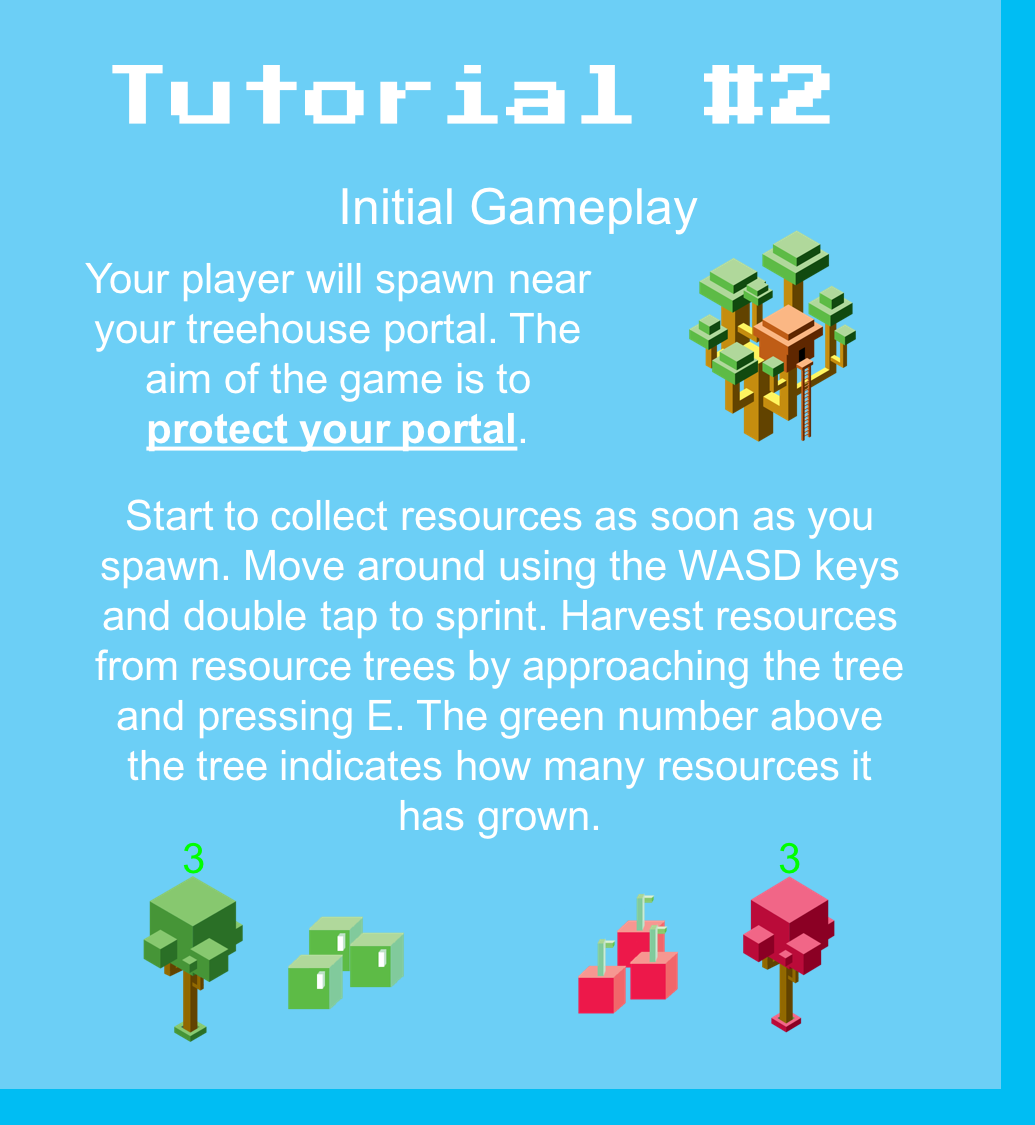
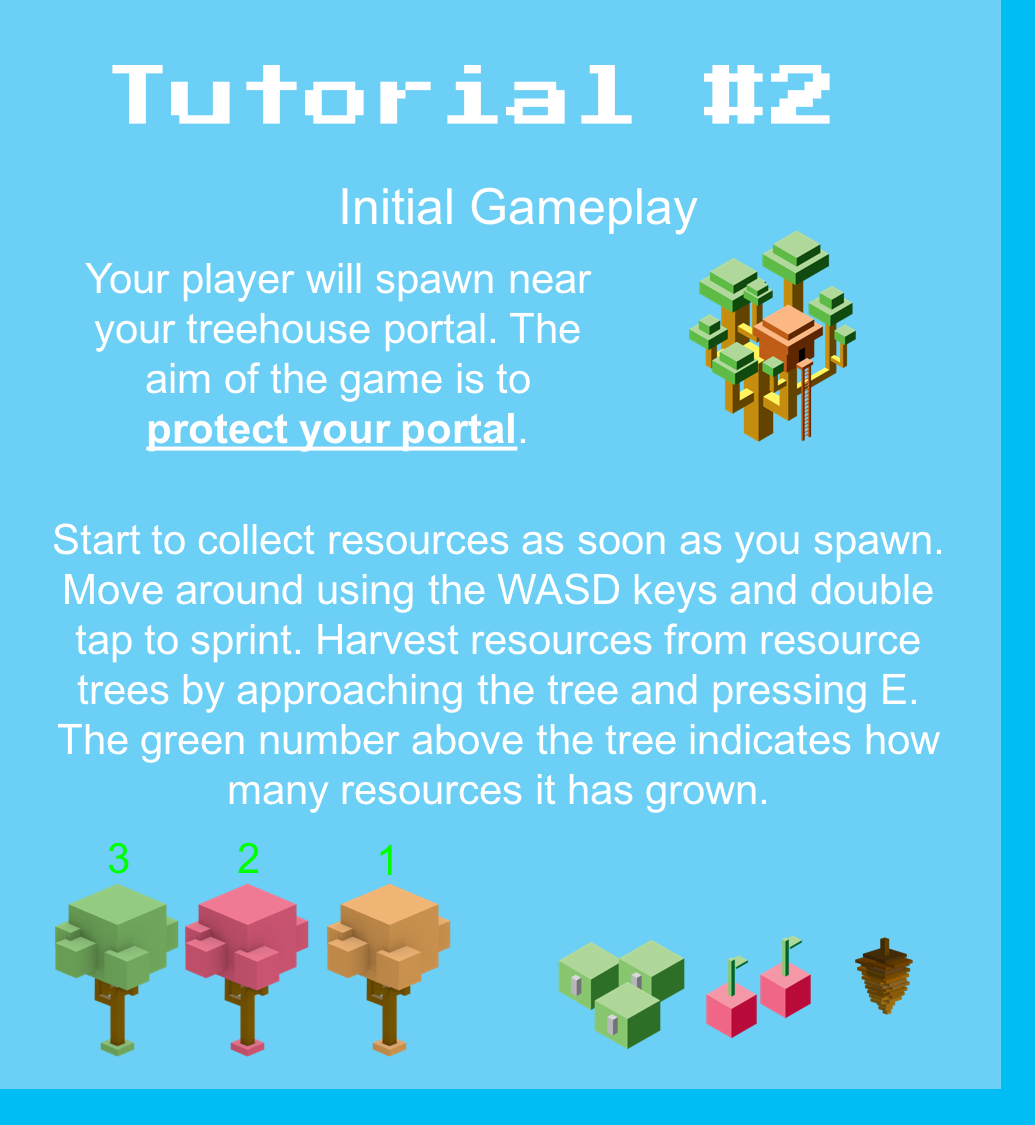
Fixed food appearing as spacman, changed tutorial slightly

Changed region(s): [[0.0309, 0.4356, 0.9275, 0.9333], [0.5256, 0.7467, 0.8966, 0.9333]]

diff --git a/potatoes/src/main/java/com/deco2800/potatoes/gui/TreeShopGui.java b/potatoes/src/main/java/com/deco2800/potatoes/gui/TreeShopGui.java
@@ -148,14 +148,15 @@ public class TreeShopGui extends Gui implements SceneGui {
 
         // Seed resource tree
         Inventory seedTreeCost = new Inventory();
-        seedTreeCost.updateQuantity(new SeedResource(), 1);
+        seedTreeCost.updateQuantity(new SeedResource(), 2);
         TreeState seedTreeState = new TreeState(new SeedTree(treeX, treeY), 
         		seedTreeCost, true, "resource");
         treeStates.add(seedTreeState);
 
         // Food resource tree
         Inventory foodTreeCost = new Inventory();
-        foodTreeCost.updateQuantity(new SeedResource(), 2);
+        foodTreeCost.updateQuantity(new SeedResource(), 1);
+        foodTreeCost.updateQuantity(new FoodResource(), 1);
         TreeState foodTreeState = new TreeState(new FoodTree(treeX, treeY), 
         		foodTreeCost, false, "resource");
         treeStates.add(foodTreeState);
@@ -163,15 +164,16 @@ public class TreeShopGui extends Gui implements SceneGui {
         // Pine resource tree
         Inventory pineTreeCost = new Inventory();
         pineTreeCost.updateQuantity(new SeedResource(), 1);
+        pineTreeCost.updateQuantity(new PineconeResource(), 1);
         TreeState pineTreeState = new TreeState(new PineTree(treeX, treeY), 
         		pineTreeCost, false, "resource");
         treeStates.add(pineTreeState);
 
         // Lightning tree
         Inventory lightningTreeCost = new Inventory();
-        lightningTreeCost.updateQuantity(new CactusThornResource(), 1);
-        lightningTreeCost.updateQuantity(new SeedResource(), 3);
-        lightningTreeCost.updateQuantity(new TreasureResource(), 1);
+        lightningTreeCost.updateQuantity(new FishMeatResource(), 4);
+        lightningTreeCost.updateQuantity(new PearlResource(), 3);
+        lightningTreeCost.updateQuantity(new TreasureResource(), 4);
         DamageTree lightningTree = new DamageTree(treeX, treeY, new LightningTreeType());
         TreeState lightningTreeState = new TreeState(lightningTree, lightningTreeCost,
                 false, "damage");
@@ -179,17 +181,18 @@ public class TreeShopGui extends Gui implements SceneGui {
 
         // Ice tree
         Inventory iceTreeCost = new Inventory();
-        iceTreeCost.updateQuantity(new IceCrystalResource(), 1);
-        iceTreeCost.updateQuantity(new SeedResource(), 4);
+        iceTreeCost.updateQuantity(new IceCrystalResource(), 2);
+        iceTreeCost.updateQuantity(new SealSkinResource(), 4);
+        iceTreeCost.updateQuantity(new IceCrystalResource(), 4);
         DamageTree iceTree = new DamageTree(treeX, treeY, new IceTreeType());
         TreeState iceTreeState = new TreeState(iceTree, iceTreeCost, false, "defense");
         treeStates.add(iceTreeState);
 
         // Fire tree
         Inventory fireTreeCost = new Inventory();
-        fireTreeCost.updateQuantity(new ObsidianResource(), 1);
-        fireTreeCost.updateQuantity(new WoodResource(), 1);
-        fireTreeCost.updateQuantity(new SeedResource(), 6);
+        fireTreeCost.updateQuantity(new ObsidianResource(), 2);
+        fireTreeCost.updateQuantity(new CoalResource(), 4);
+        fireTreeCost.updateQuantity(new BonesResource(), 3);
         DamageTree fireTree = new DamageTree(treeX, treeY, new FireTreeType());
         TreeState fireTreeState = new TreeState(fireTree, fireTreeCost, false,
                 "damage");
@@ -197,8 +200,8 @@ public class TreeShopGui extends Gui implements SceneGui {
 
         // Acorn tree
         Inventory acornTreeCost = new Inventory();
-        acornTreeCost.updateQuantity(new PineconeResource(), 1);
-        acornTreeCost.updateQuantity(new TumbleweedResource(), 1);
+        acornTreeCost.updateQuantity(new PineconeResource(), 2);
+        acornTreeCost.updateQuantity(new FoodResource(), 2);
         acornTreeCost.updateQuantity(new SeedResource(), 3);
         DamageTree acornTree = new DamageTree(treeX, treeY, new AcornTreeType());
         TreeState acornTreeState = new TreeState(acornTree, acornTreeCost, true,
@@ -209,7 +212,7 @@ public class TreeShopGui extends Gui implements SceneGui {
         Inventory cactusTreeCost = new Inventory();
         cactusTreeCost.updateQuantity(new CactusThornResource(), 2);
         cactusTreeCost.updateQuantity(new PricklyPearResource(), 3);
-        cactusTreeCost.updateQuantity(new SeedResource(), 4);
+        cactusTreeCost.updateQuantity(new TumbleweedResource(), 4);
         DamageTree cactusTree = new DamageTree(treeX, treeY, new CactusTreeType());
         TreeState cactusTreeState = new TreeState(cactusTree, cactusTreeCost, false,
         		"damage");
@@ -217,8 +220,7 @@ public class TreeShopGui extends Gui implements SceneGui {
         
         // Defense tree
         Inventory defenseTreeCost = new Inventory();
-        defenseTreeCost.updateQuantity(new ObsidianResource(), 3);
-        defenseTreeCost.updateQuantity(new SeedResource(), 6);
+        defenseTreeCost.updateQuantity(new SeedResource(), 1);
         DefenseTree defenseTree = new DefenseTree(treeX, treeY);
         TreeState defenseTreeState = new TreeState(defenseTree, defenseTreeCost, false,
         		"defense");

diff --git a/potatoes/src/main/java/com/deco2800/potatoes/screens/GameScreen.java b/potatoes/src/main/java/com/deco2800/potatoes/screens/GameScreen.java
@@ -228,16 +228,16 @@ public class GameScreen implements Screen {
 		GameManager.get().getManager(WaveManager.class).regularGame(WaveManager.EASY);
 			
 		/* Randomly generate trees in each world */
-		AbstractTree[] forestTrees = {new SeedTree(0, 0), new PineTree(0, 0), new FoodTree(0, 0), new DamageTree(0, 0, new AcornTreeType()), new DefenseTree(0, 0)};
+		AbstractTree[] forestTrees = {new SeedTree(0, 0), new PineTree(0, 0), new FoodTree(0, 0), new DamageTree(0, 0, new AcornTreeType())};
 		randomlyGenerateTrees(GameManager.get().getManager(WorldManager.class).getWorld(ForestWorld.get()), forestTrees);
 
-		AbstractTree[] desertTrees = {new PineTree(0, 0), new DamageTree(0, 0, new CactusTreeType())};
+		AbstractTree[] desertTrees = {new SeedTree(0, 0), new PineTree(0, 0), new FoodTree(0, 0), new DamageTree(0, 0, new CactusTreeType())};
 		randomlyGenerateTrees(GameManager.get().getManager(WorldManager.class).getWorld(DesertWorld.get()), desertTrees);
 
-		AbstractTree[] iceTrees = {new SeedTree(0, 0), new DamageTree(0, 0, new IceTreeType())};
+		AbstractTree[] iceTrees = {new SeedTree(0, 0), new PineTree(0, 0), new FoodTree(0, 0), new DamageTree(0, 0, new IceTreeType())};
 		randomlyGenerateTrees(GameManager.get().getManager(WorldManager.class).getWorld(IceWorld.get()), iceTrees);
 
-		AbstractTree[] oceanTrees = {new FoodTree(0, 0), new DefenseTree(0, 0), new DamageTree(0, 0)};
+		AbstractTree[] oceanTrees = {new SeedTree(0, 0), new PineTree(0, 0), new FoodTree(0, 0), new DamageTree(0, 0, new LightningTreeType())};
 		randomlyGenerateTrees(GameManager.get().getManager(WorldManager.class).getWorld(OceanWorld.get()), oceanTrees);
 
 		AbstractTree[] volcanoTrees = {new FoodTree(0, 0), new PineTree(0, 0), new DamageTree(0, 0, new FireTreeType())};
@@ -273,7 +273,7 @@ public class GameScreen implements Screen {
 	    	int yPos;
 
 	    	// The amount of each tree to generate
-    		int amount = 70/trees.length;
+    		int amount = 100/trees.length;
 
 	    	// Terrain to add the tree to
 	    	Terrain terrain;
@@ -312,7 +312,7 @@ public class GameScreen implements Screen {
 	}
 
 	private void addDamageTree() {
-		GameManager.get().getWorld().addEntity(new DamageTree(16.5f, 11.5f));
+		GameManager.get().getWorld().addEntity(new DamageTree(16.5f, 11.5f, new LightningTreeType()));
 		GameManager.get().getWorld().addEntity(new DamageTree(14.5f, 11.5f, new AcornTreeType()));
 		GameManager.get().getWorld().addEntity(new DamageTree(15.5f, 11.5f, new IceTreeType()));
 		GameManager.get().getWorld().addEntity(new DamageTree(13.5f, 11.5f, new FireTreeType()));

diff --git a/potatoes/src/main/java/com/deco2800/potatoes/entities/trees/DamageTree.java b/potatoes/src/main/java/com/deco2800/potatoes/entities/trees/DamageTree.java
@@ -184,23 +184,17 @@ public class DamageTree extends AbstractTree implements Tickable {
     /**
      * Base Constructor
      */
-
-     public DamageTree(float posX, float posY) {
-         this(posX, posY, new LightningTreeType());
-     }
-
     public DamageTree(float posX, float posY, DamageTreeType texture) {
         super(posX, posY, 1f, 1f);
-        if(null==texture){
-            damageTreeType=new LightningTreeType();
-        } else {
-            damageTreeType=texture;
-        }
+        damageTreeType=texture;
+        texture = texture;
     }
 
 
     public DamageTree(float posX, float posY, DamageTreeType texture, float maxHealth,float damage) {
         super(posX, posY, 1f, 1f);
+        damageTreeType=texture;
+        texture = texture;
     }
 
     @Override

diff --git a/potatoes/src/main/java/com/deco2800/potatoes/managers/TextureManager.java b/potatoes/src/main/java/com/deco2800/potatoes/managers/TextureManager.java
@@ -300,7 +300,7 @@ public class TextureManager extends Manager {
 
         //Resources
         saveTexture("seed", "resources/resourceEntities/seed.png");
-        saveTexture("wood", "resources/resourceEntities/wood.png");
+        saveTexture("food", "resources/resourceEntities/food.png");
 
         saveTexture("tumbleweed", "resources/resourceEntities/tumbleweed.png");
         saveTexture("cactusThorn", "resources/resourceEntities/cactusThorn.png");
